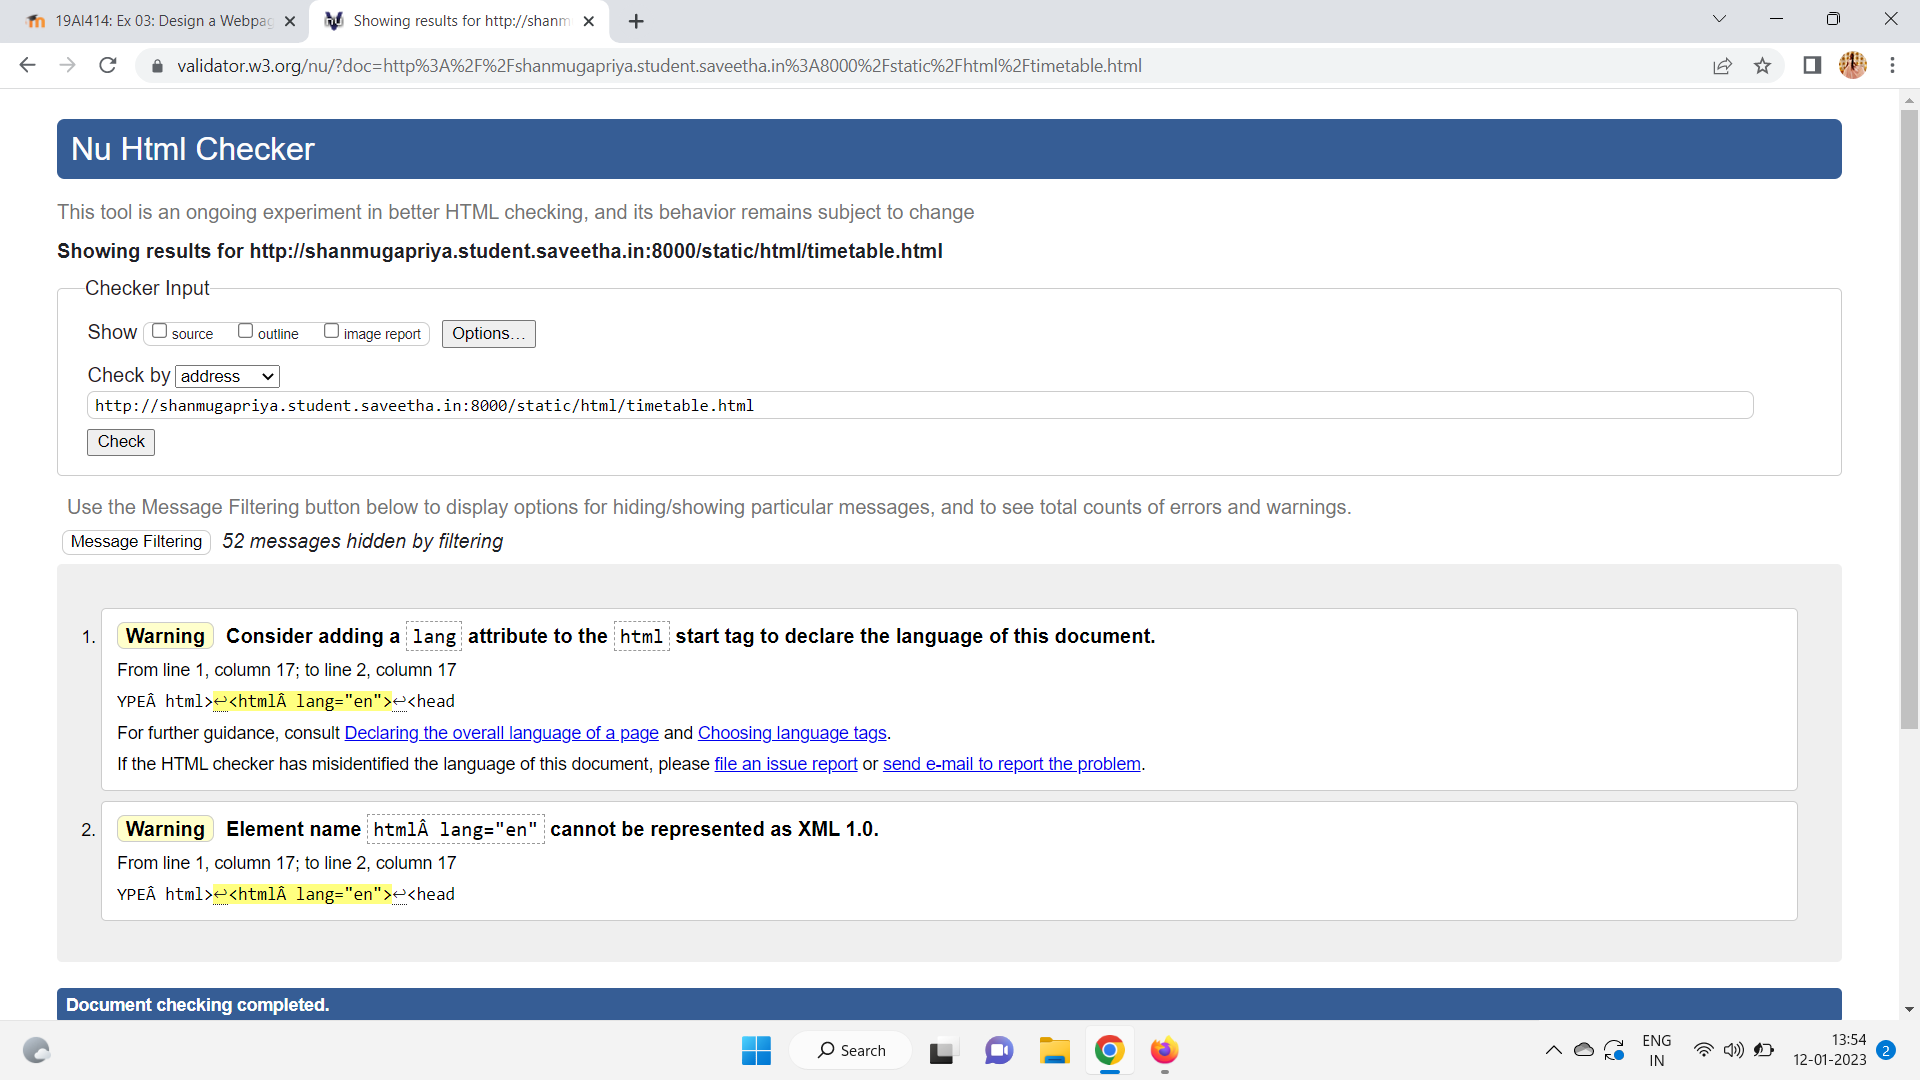
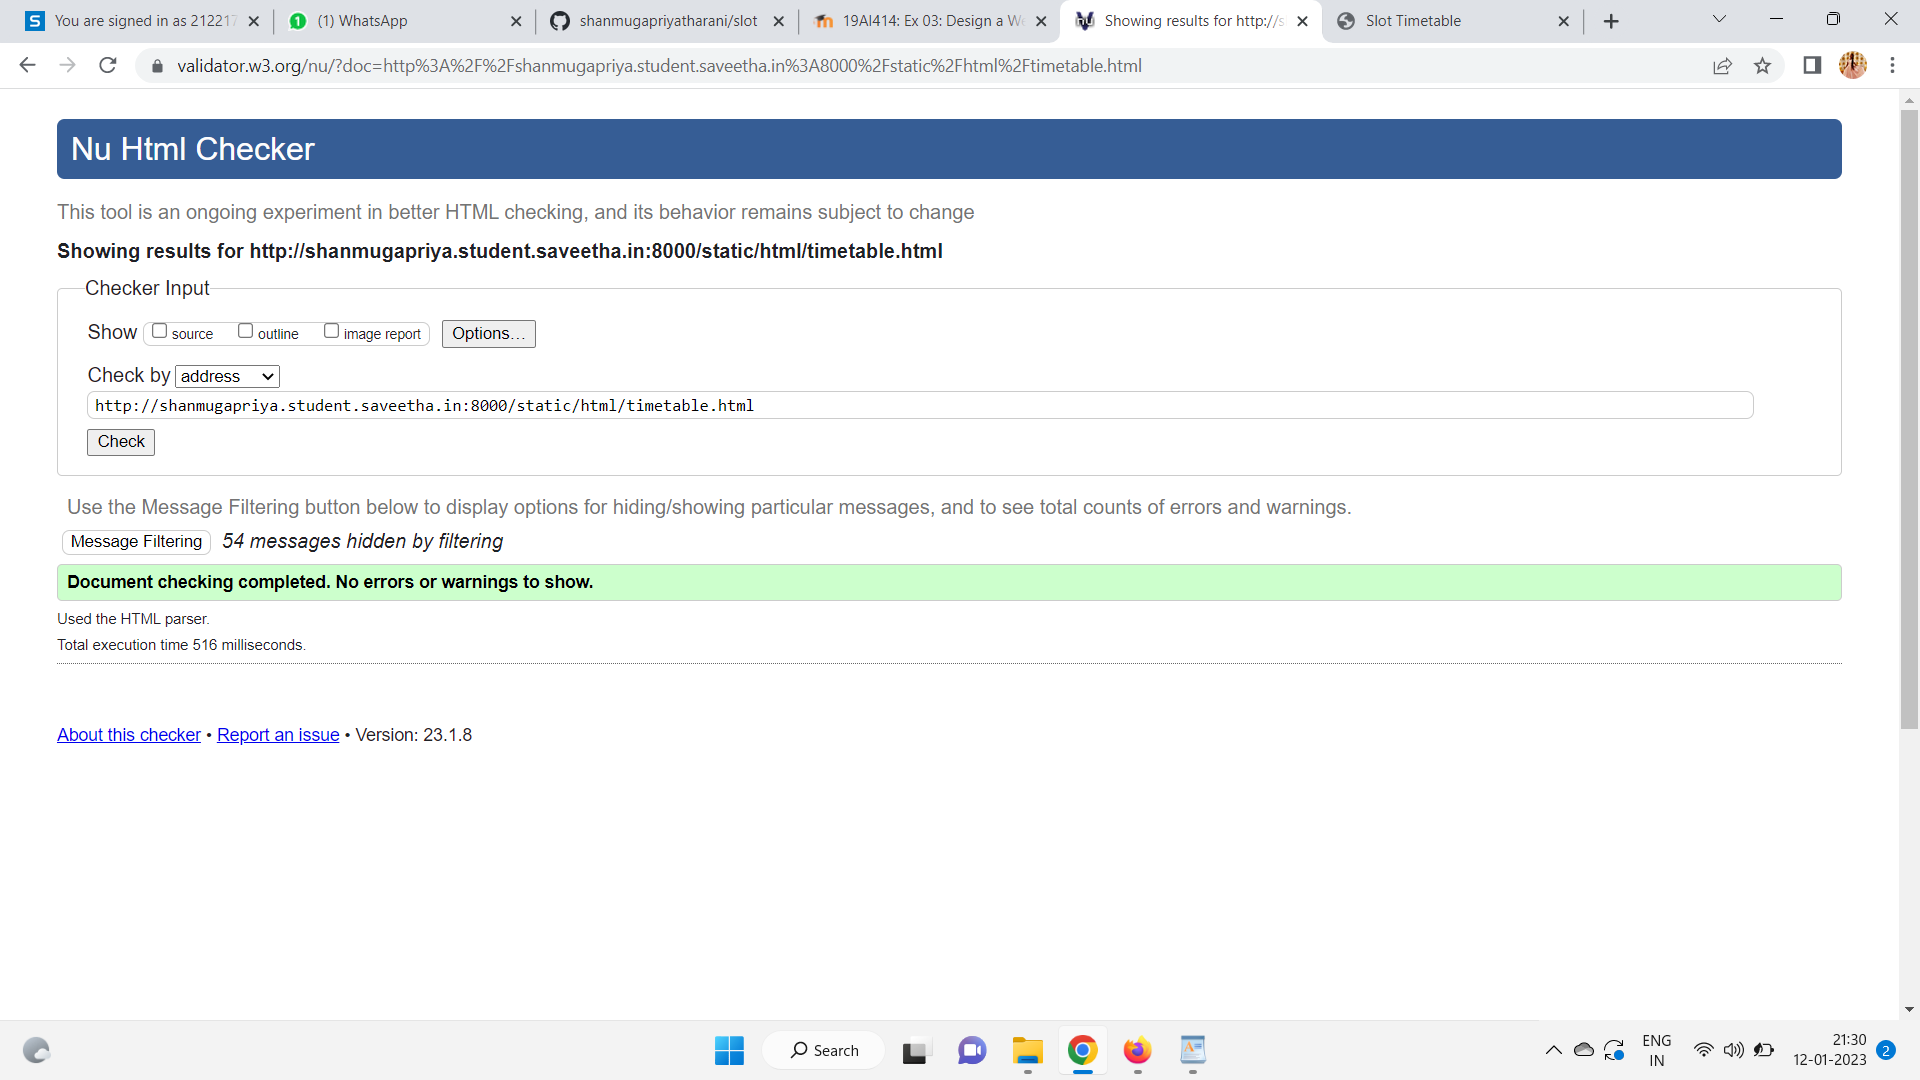
Success

Changed region(s): [[0.0312, 0.5194, 0.9688, 0.8556], [0.0312, 0.9167, 0.9688, 1.0], [0.0, 0.0, 0.75, 0.0611]]

diff --git a/README.md b/README.md
@@ -29,7 +29,7 @@ Execute the program
 </center>
 <br>
 <table align="center" width="540" cellspacing="2" cellpadding="4" border="5" bgcolor="cyan">
-<caption><b>SLOT TIME TABLE - SHANMUGA PRIYA T (22008577)</b></caption>
+<caption><b>SLOT TIME TABLE - Shanmuga Priya(22008577)</b></caption>
 <tr align="center">
 <th bgcolor="yellow">Day/Time</th>
 <th bgcolor="yellow">Monday</th>
@@ -114,10 +114,10 @@ Execute the program
 ```
 
 # OUPUT
-![OUTPUT](http://shanmugapriya.student.saveetha.in:8000/static/images/Screenshot(15).png?raw=true)
+![OUTPUT](http://shanmugapriya.student.saveetha.in:8000/static/images/out.png?raw=true)
 
 # HTML VALIDATOR
-![HTML VALIDATOR](http://shanmugapriya.student.saveetha.in:8000/static/images/Screenshot(15).png?raw=true)
+![HTML VALIDATOR](http://shanmugapriya.student.saveetha.in:8000/static/images/valid.png?raw=true)
 
 # RESULT
 The program for creating slot time table is complted successfully
